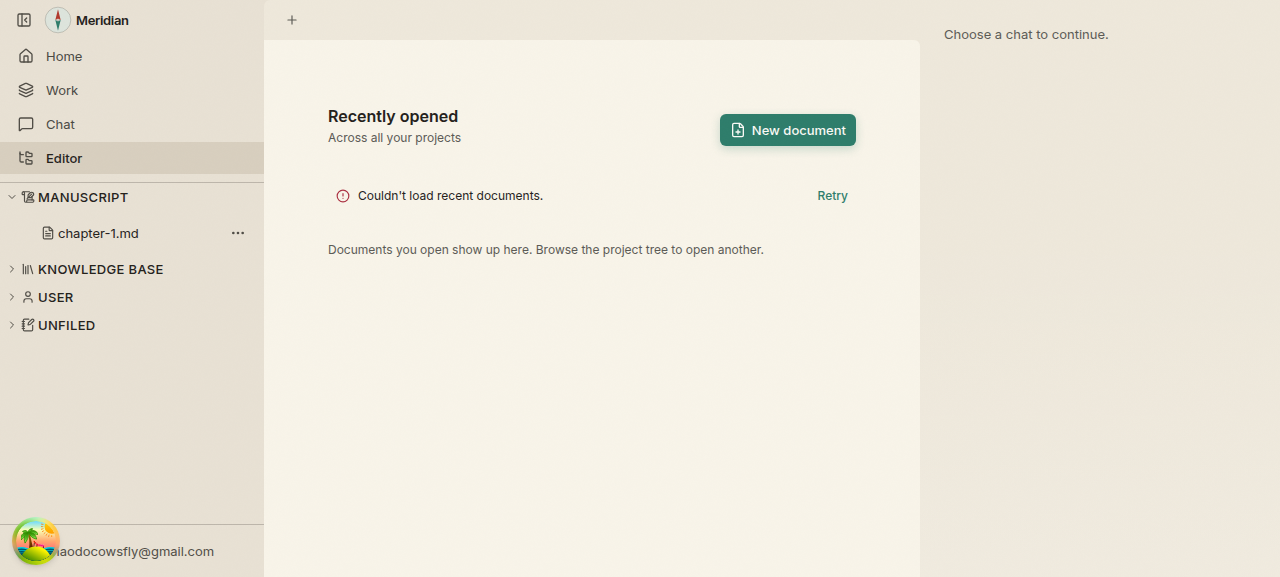
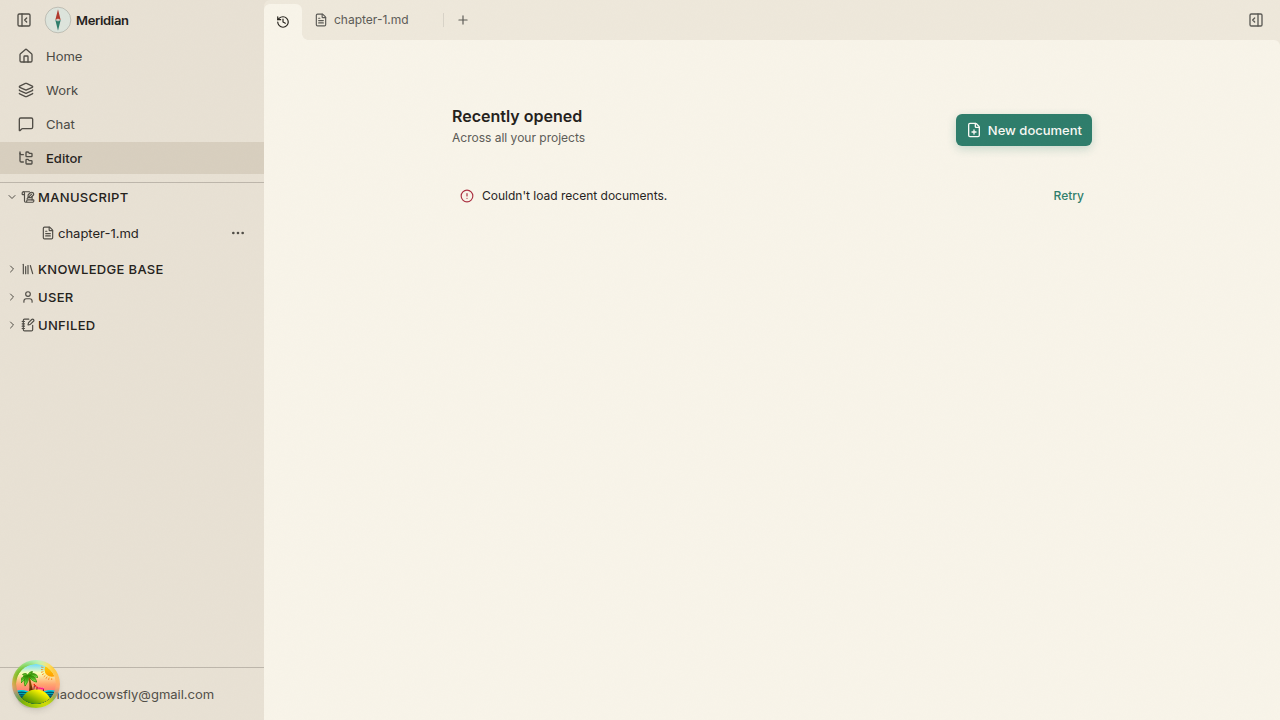
feat(editor): attach the chooser door to the page like a tab
The control sat on the strip's chrome as a bordered pill, which read as
pasted on rather than attached to the editor. It now wears the tab-chip
grammar: on the chooser it is the canvas the page's top edge rises into,
and off it the writer gets the same hover pill an inactive tab wears. It
also sits flush in the tab row instead of behind a padded gap.

Also drops the "Documents you open show up here / Browse the project
tree" hint under the list: the rows show what was opened, and the empty
and error states already say what to do. Its onBrowseTree plumbing goes
with it.

diff --git a/apps/app/src/features/project/context/ContextTabBar.tsx b/apps/app/src/features/project/context/ContextTabBar.tsx
@@ -102,33 +102,40 @@ export function ContextTabBar({
     >
       {leading ? <div className="flex shrink-0 items-center px-2">{leading}</div> : null}
       {onShowRecents ? (
-        <div className="flex shrink-0 items-center pl-2">
-          <Tooltip>
-            <TooltipTrigger asChild>
-              <button
-                type="button"
-                onClick={onShowRecents}
-                aria-label={t`Recently opened`}
-                aria-current={recentsActive ? "page" : undefined}
-                className={cn(
-                  "focus-ring relative isolate grid h-full w-10 shrink-0 place-items-center before:absolute before:inset-x-1 before:inset-y-1 before:-z-10 before:rounded-md before:transition-colors hover:text-foreground hover:before:bg-background/50",
-                  // On the chooser this is where the writer is, not just a way
-                  // back: same canvas pill an active tab wears.
-                  recentsActive
-                    ? "text-foreground before:bg-background/50"
-                    : "text-muted-foreground",
-                )}
-              >
-                <History className="size-3.5" aria-hidden />
-              </button>
-            </TooltipTrigger>
-            <TooltipContent side="bottom" sideOffset={4}>
-              <Trans>Recently opened</Trans>
-            </TooltipContent>
-          </Tooltip>
-        </div>
+        <Tooltip>
+          <TooltipTrigger asChild>
+            <button
+              type="button"
+              onClick={onShowRecents}
+              aria-label={t`Recently opened`}
+              aria-current={recentsActive ? "page" : undefined}
+              // Chip grammar, like the tabs: on the chooser this is the place the
+              // page's top edge rises into, and off it the writer gets the same
+              // hover pill an inactive tab wears. Not `h-full` — items-stretch
+              // sizes the chip so the active margin subtracts from its height.
+              className={cn(
+                "focus-ring relative flex shrink-0 items-center gap-1.5 px-3",
+                recentsActive
+                  ? "tab-chip-active text-foreground"
+                  : "tab-chip-inactive text-muted-foreground hover:text-foreground",
+              )}
+            >
+              <History className="size-3.5" aria-hidden />
+            </button>
+          </TooltipTrigger>
+          <TooltipContent side="bottom" sideOffset={4}>
+            <Trans>Recently opened</Trans>
+          </TooltipContent>
+        </Tooltip>
       ) : null}
-      <div className="flex min-w-0 flex-1 items-stretch overflow-x-auto overflow-y-hidden pl-2">
+      {/* Flush against the door when it is there: the door is the first chip in
+          the row, not a control docked beside it. */}
+      <div
+        className={cn(
+          "flex min-w-0 flex-1 items-stretch overflow-x-auto overflow-y-hidden",
+          onShowRecents ? "pl-0" : "pl-2",
+        )}
+      >
         {tabs.map((tab, index) => {
           const active = tab.documentId === activeTabId;
           const previous = tabs[index - 1];

diff --git a/apps/app/src/features/project/context/RecentDocumentsLanding.tsx b/apps/app/src/features/project/context/RecentDocumentsLanding.tsx
@@ -60,15 +60,9 @@ function groupLabel(group: Group): string {
 
 export function RecentDocumentsLanding({
   onNewDocument,
-  onBrowseTree,
 }: {
   /** Starts a local document in the current project (Unfiled). */
   onNewDocument?: () => void;
-  /**
-   * Reveals the project tree. Omitted when the rail is already open, so the
-   * hint never offers a door to something the writer can already see.
-   */
-  onBrowseTree?: () => void;
 }) {
   const recent = useRecentDocuments();
   const [now, setNow] = useState(() => Date.now());
@@ -155,17 +149,6 @@ export function RecentDocumentsLanding({
             ) : null}
           </>
         )}
-
-        <p className="mt-8 text-xs text-muted-foreground">
-          <Trans>Documents you open show up here.</Trans>{" "}
-          {onBrowseTree ? (
-            <button type="button" onClick={onBrowseTree} className="text-button text-xs">
-              <Trans>Browse the project tree</Trans>
-            </button>
-          ) : (
-            <Trans>Browse the project tree to open another.</Trans>
-          )}
-        </p>
       </div>
     </div>
   );

diff --git a/apps/app/src/features/project/context/ContextViewer.tsx b/apps/app/src/features/project/context/ContextViewer.tsx
@@ -211,10 +211,7 @@ export function ContextViewer({
           <MissingDocumentState destination={paneState.destination} />
         ) : null}
         {paneState.kind === "empty-workspace" ? (
-          <RecentDocumentsLanding
-            onNewDocument={onNewDocument}
-            onBrowseTree={sidebarToggle?.open ? undefined : sidebarToggle?.onExpand}
-          />
+          <RecentDocumentsLanding onNewDocument={onNewDocument} />
         ) : null}
         {paneState.kind === "route-error" ? <RouteErrorState /> : null}
       </div>
